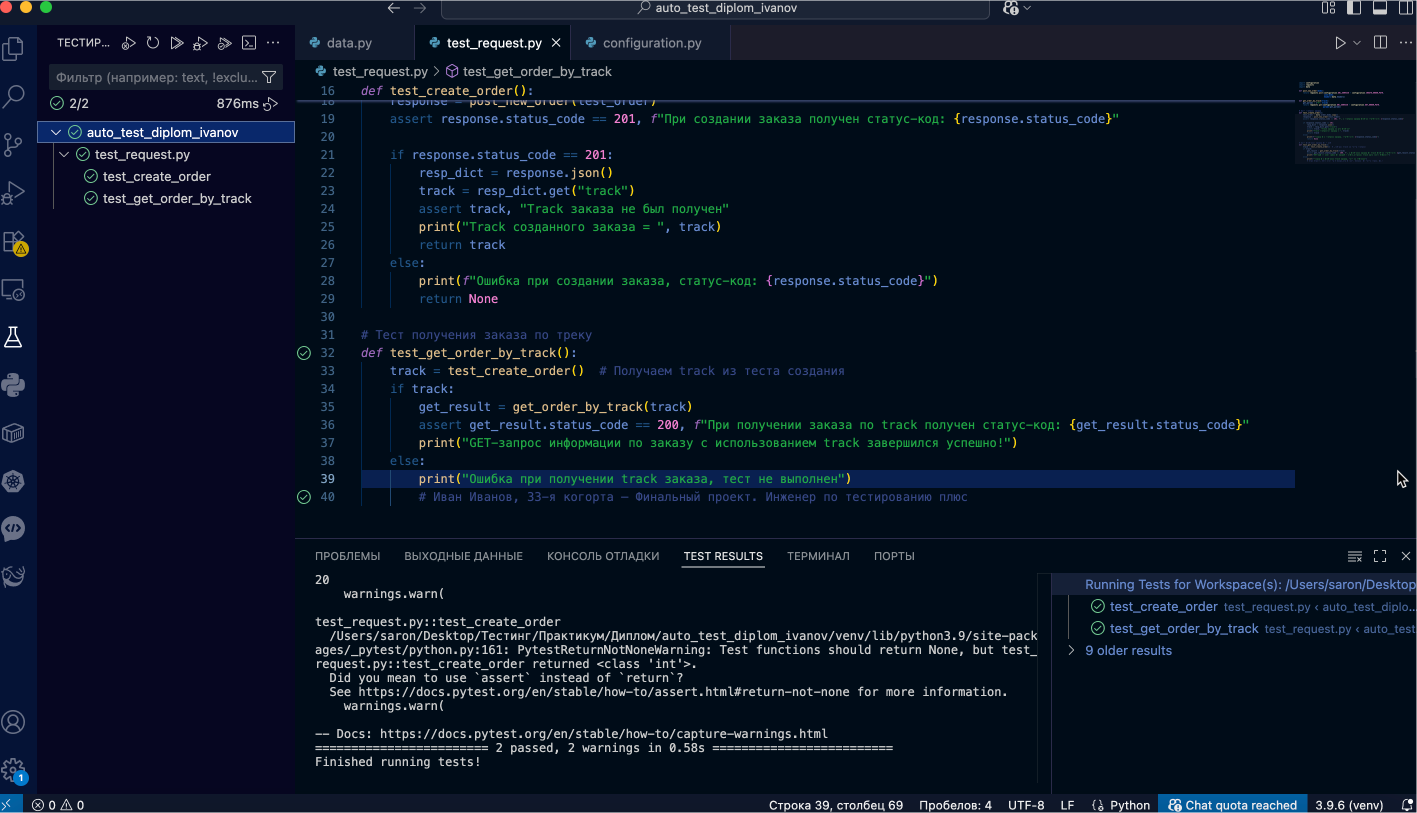
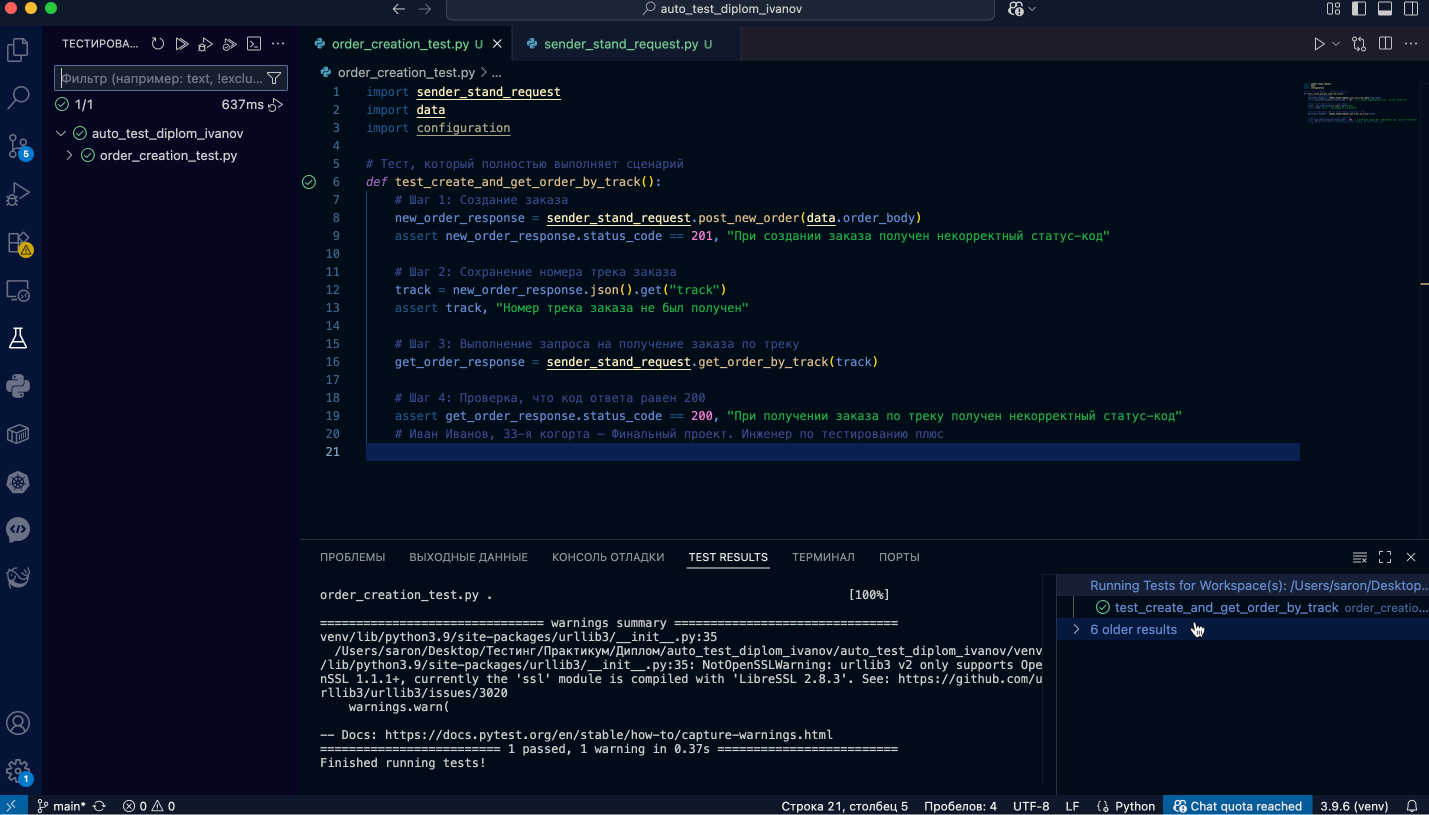
Исправления по замечаниям ревьюера, добавлены недостающие файлы

diff --git a/order_creation_test.py b/order_creation_test.py
@@ -1,0 +1,21 @@
+import sender_stand_request
+import data
+import configuration
+
+# Тест, который полностью выполняет сценарий
+def test_create_and_get_order_by_track():
+    # Шаг 1: Создание заказа
+    new_order_response = sender_stand_request.post_new_order(data.order_body)
+    assert new_order_response.status_code == 201, "При создании заказа получен некорректный статус-код"
+
+    # Шаг 2: Сохранение номера трека заказа
+    track = new_order_response.json().get("track")
+    assert track, "Номер трека заказа не был получен"
+
+    # Шаг 3: Выполнение запроса на получение заказа по треку
+    get_order_response = sender_stand_request.get_order_by_track(track)
+
+    # Шаг 4: Проверка, что код ответа равен 200
+    assert get_order_response.status_code == 200, "При получении заказа по треку получен некорректный статус-код"
+    # Иван Иванов, 33-я когорта — Финальный проект. Инженер по тестированию плюс
+    

diff --git a/sender_stand_request.py b/sender_stand_request.py
@@ -1,0 +1,15 @@
+import requests
+import configuration
+import data
+
+# Функция для создания нового заказа
+def post_new_order(body):
+    return requests.post(configuration.URL_SERVICE + configuration.CREATE_ORDER_PATH,
+                         json=body,
+                         headers=data.headers)
+
+# Функция для получения заказа по его треку
+def get_order_by_track(track):
+    get_params = {"t": track}
+    return requests.get(configuration.URL_SERVICE + configuration.GET_ORDER_PATH,
+                        params=get_params)

diff --git a/configuration.py b/configuration.py
@@ -1,3 +1,3 @@
-URL_SERVICE = "https://0e98b443-eea4-429b-9f37-689cb00e7be1.serverhub.praktikum-services.ru"
+URL_SERVICE = "https://f403f8d0-72c4-455b-96bb-d9d9055555f2.serverhub.praktikum-services.ru"
 CREATE_ORDER_PATH = "/api/v1/orders/"
 GET_ORDER_PATH = "/api/v1/orders/track/"
